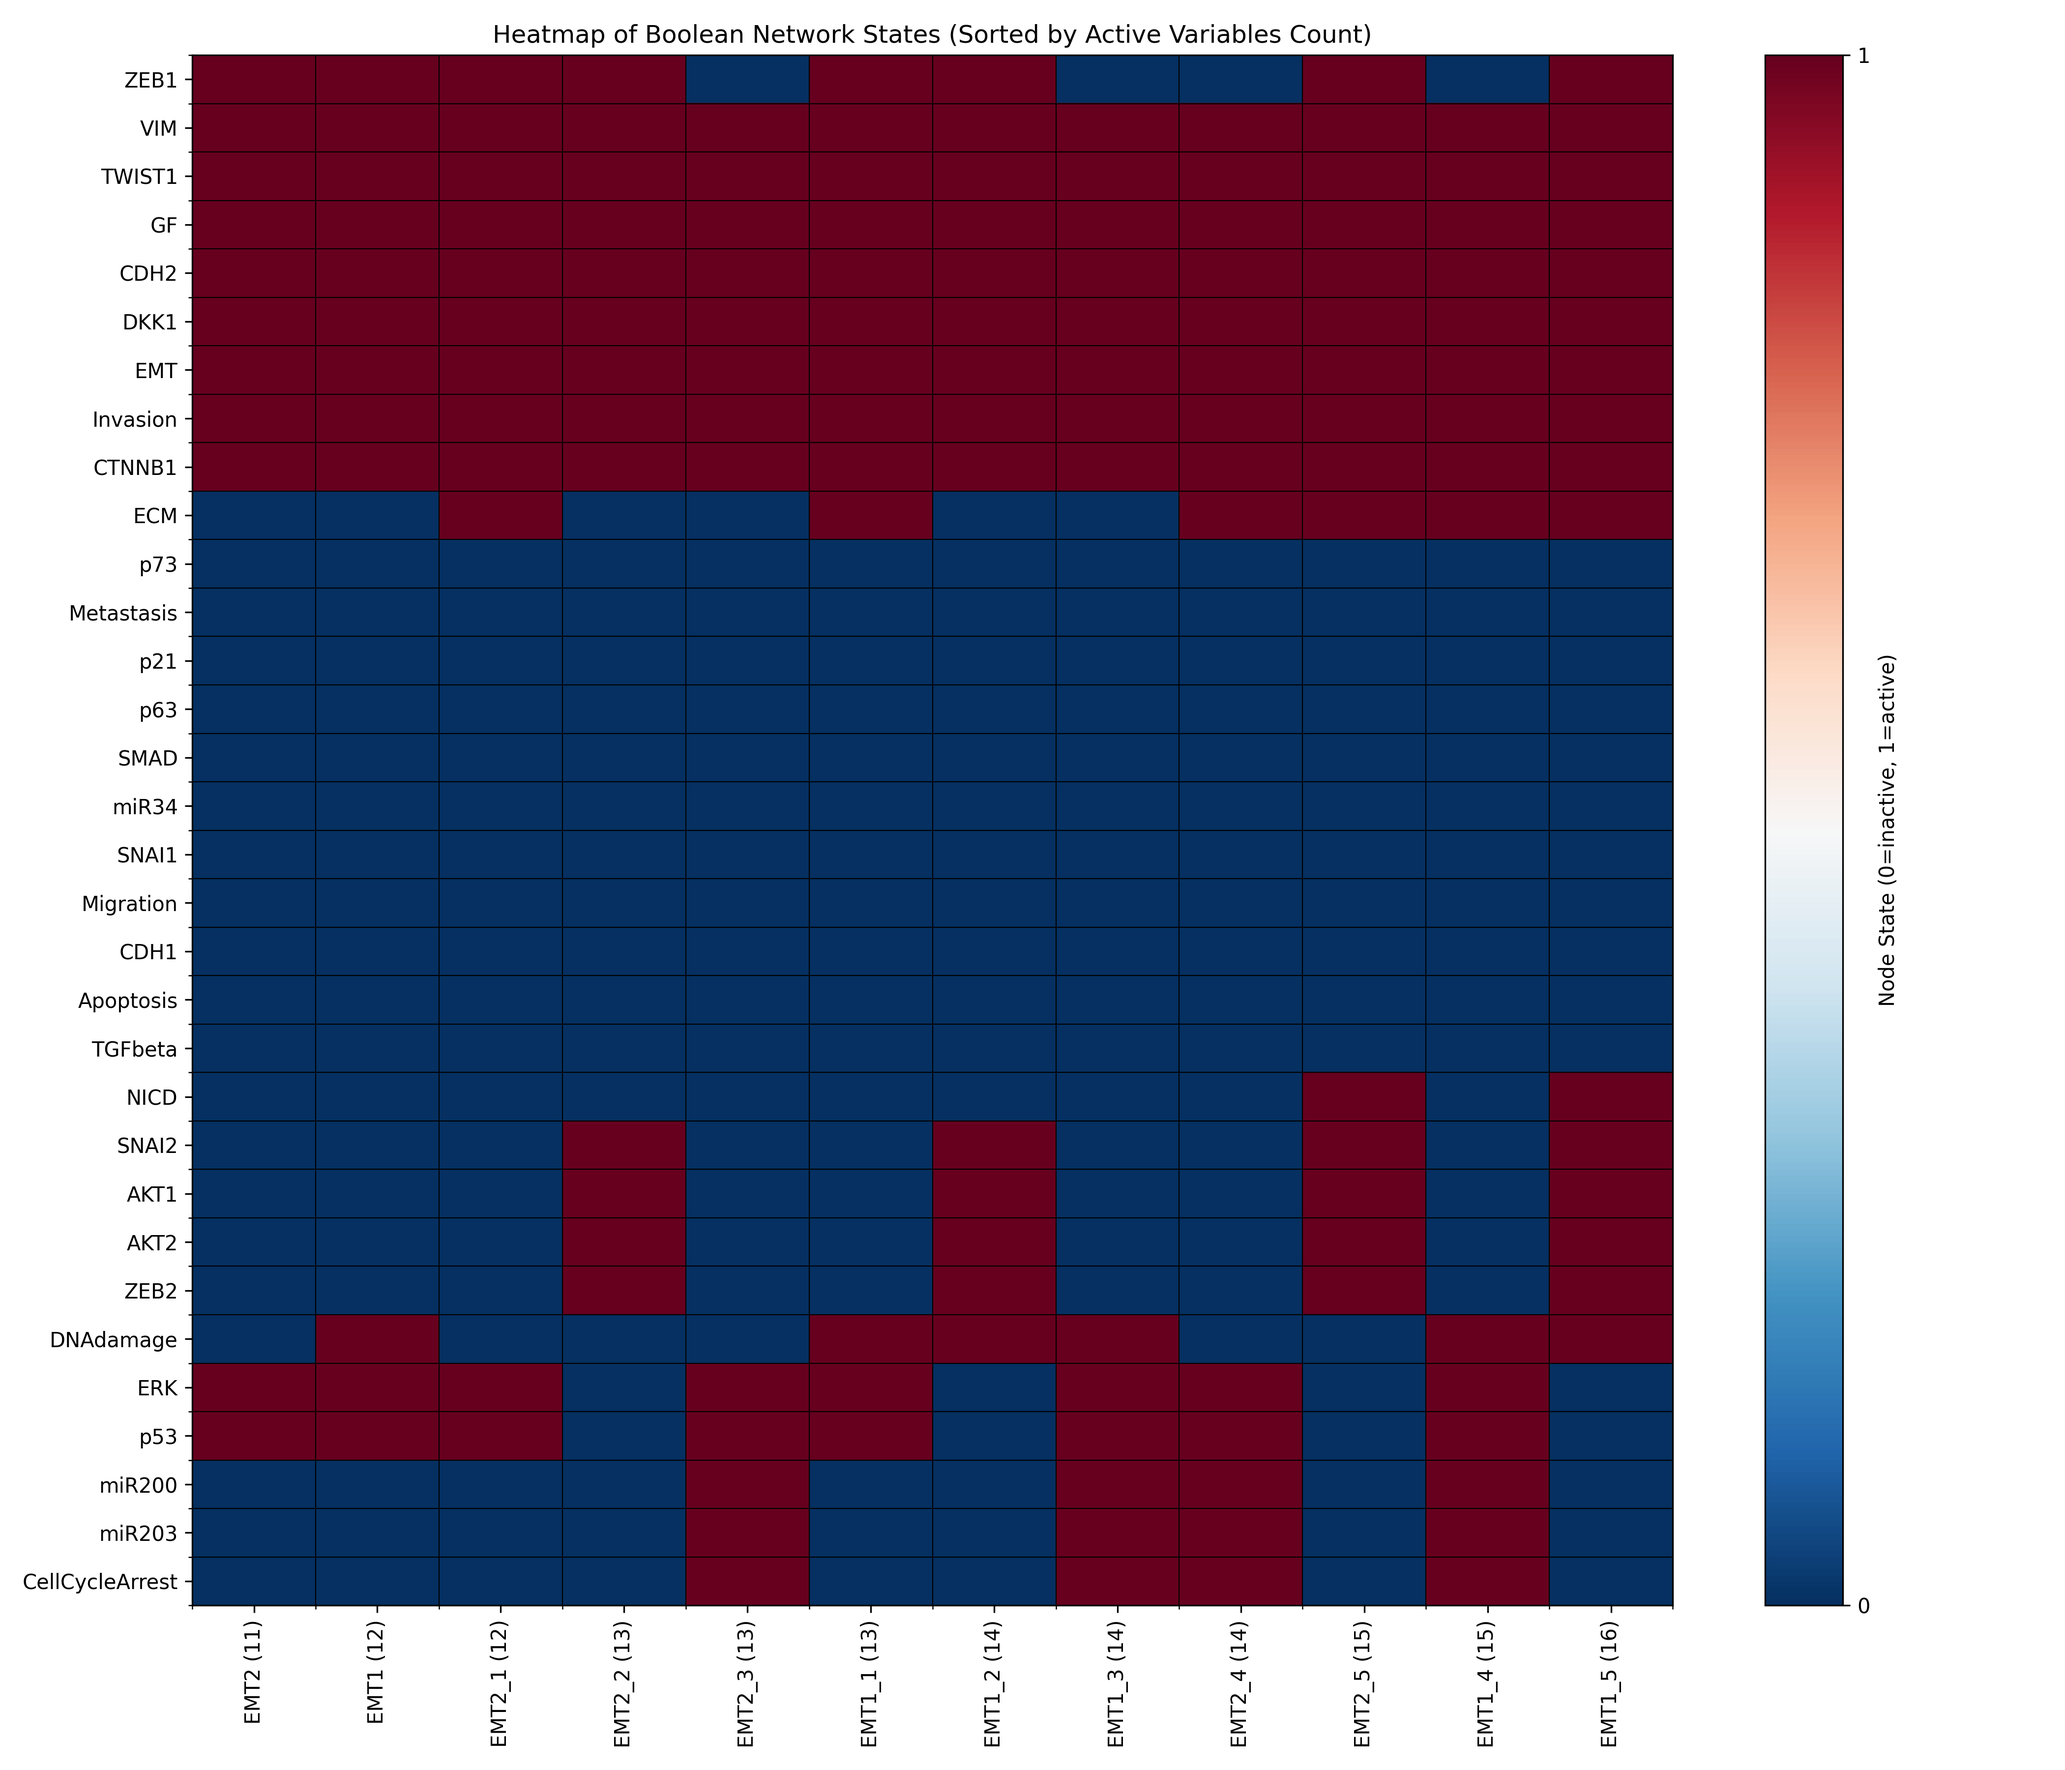
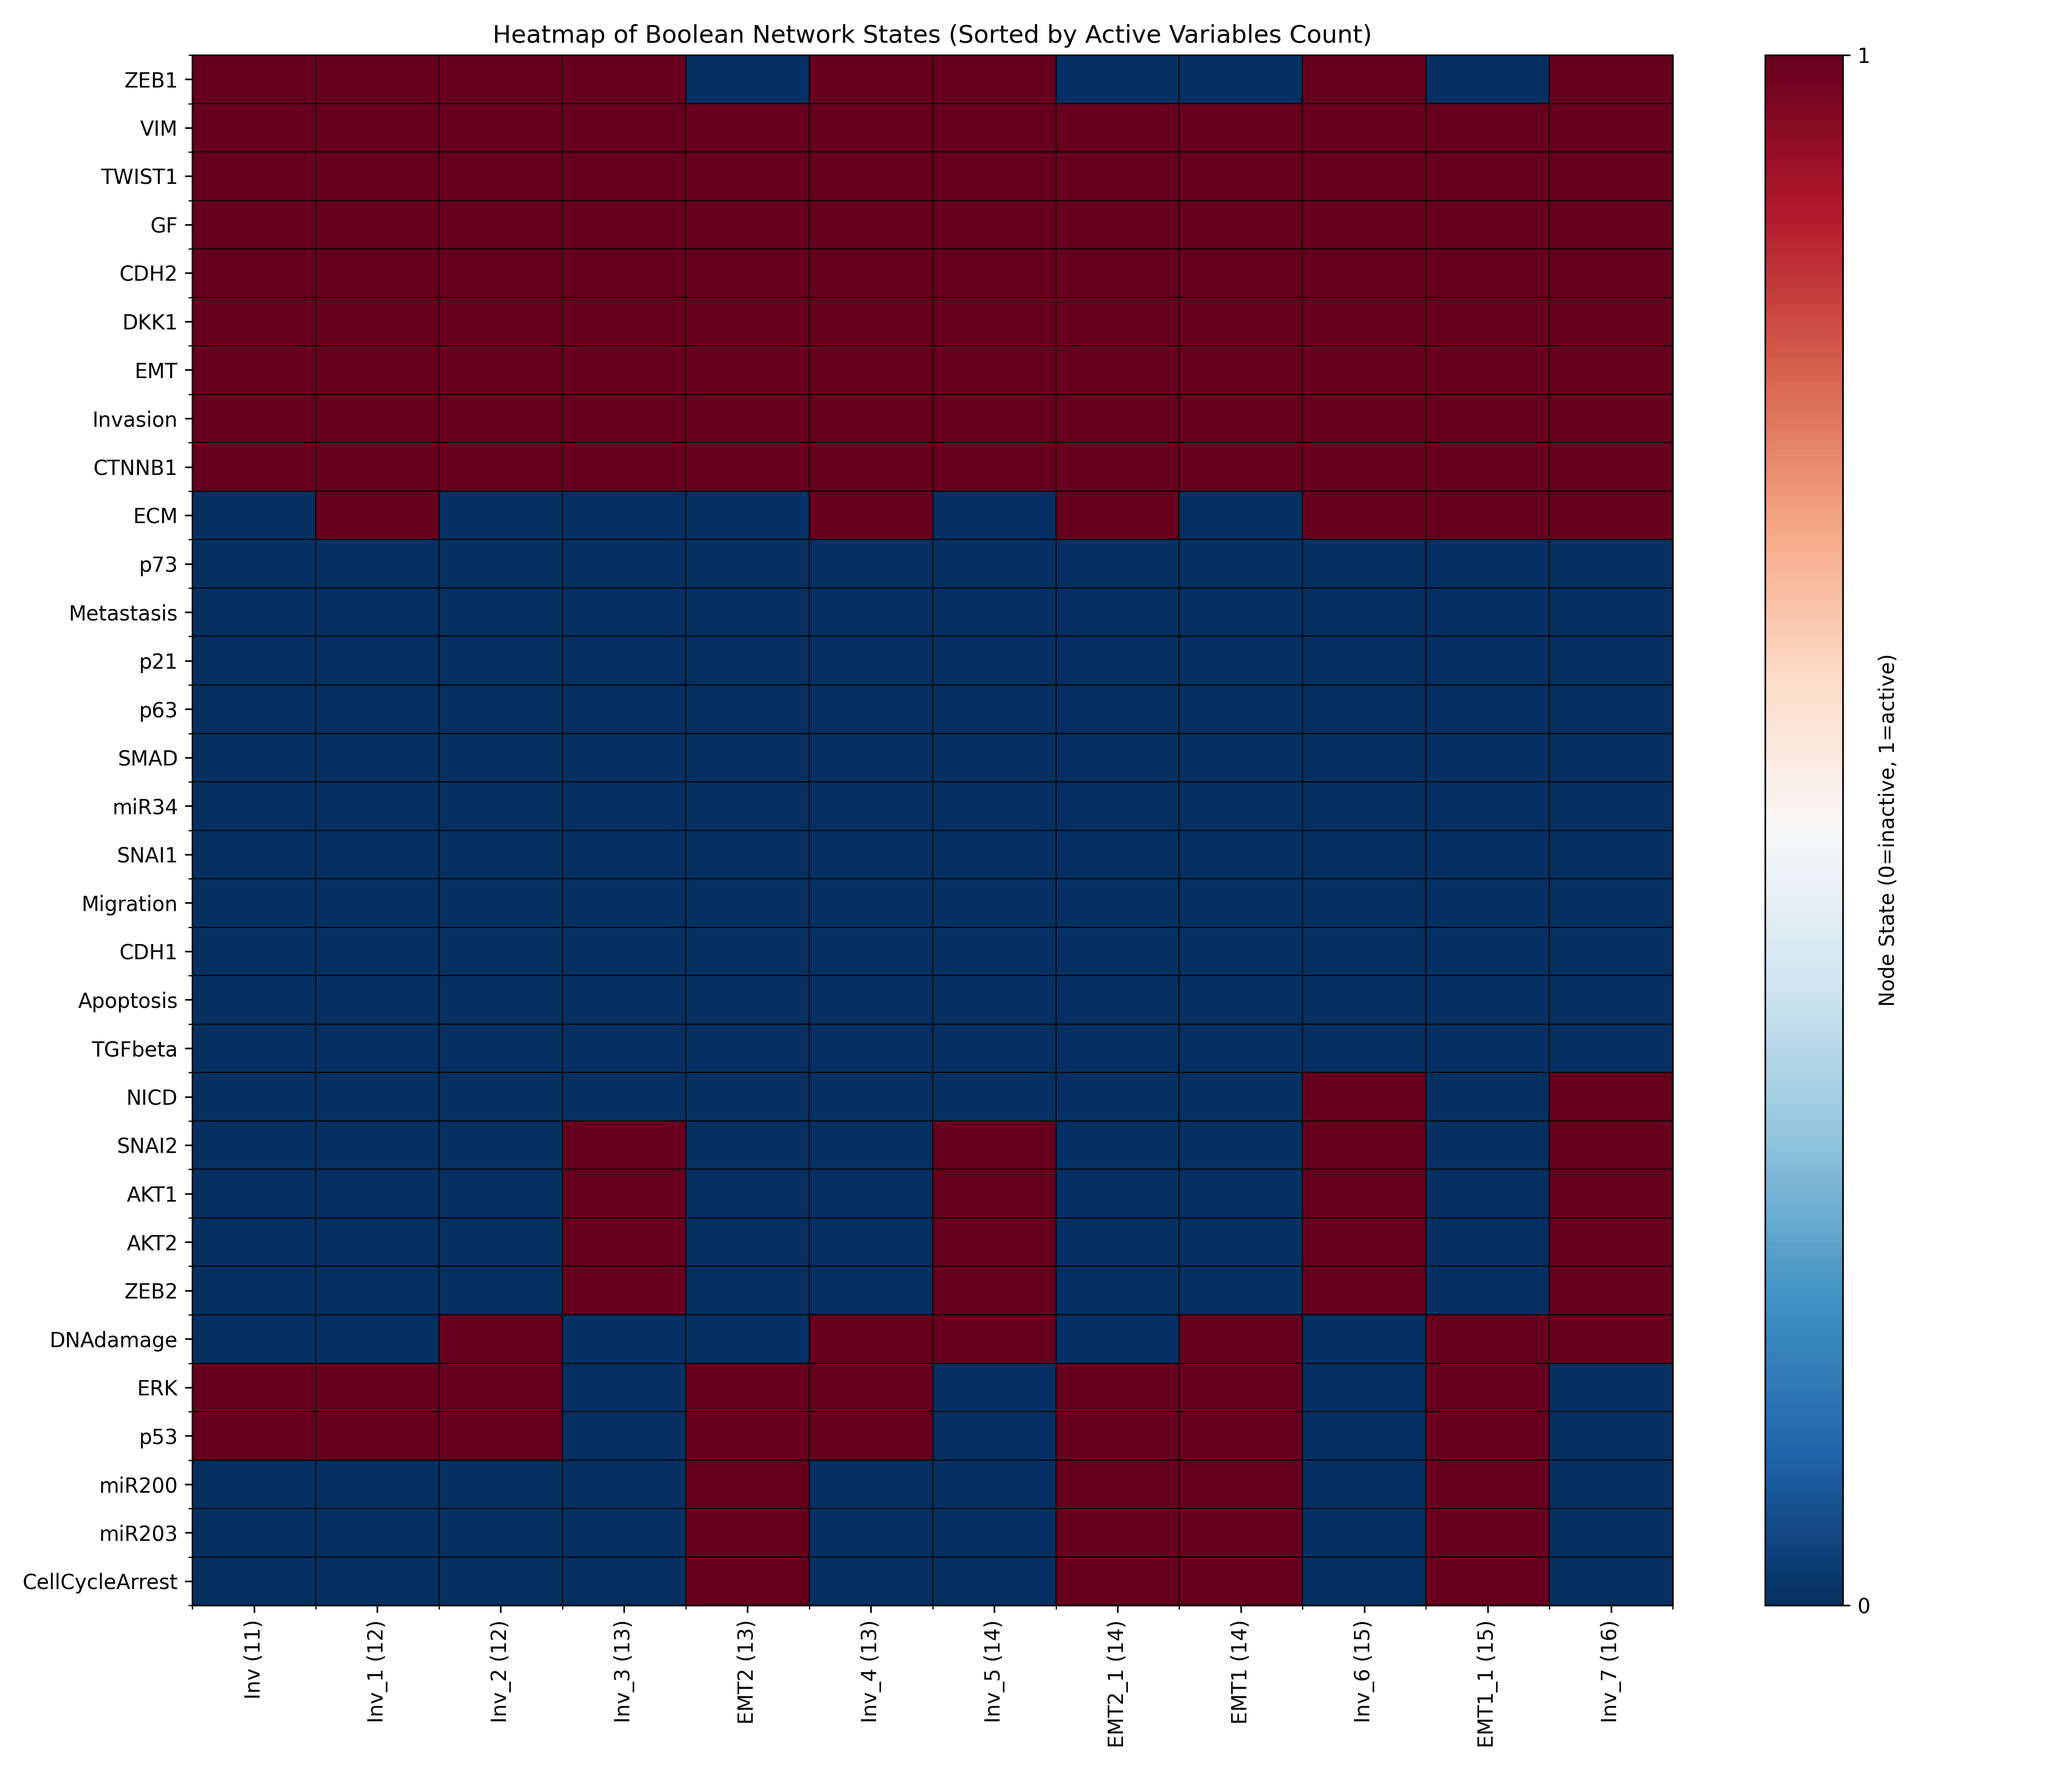
--comprehensive controllability analysis for modular model

diff --git a/metastasisModel.py b/metastasisModel.py
@@ -1,5 +1,5 @@
 from sympy import symbols
-from BooN import *
+from BooN import BooN
 
 from utils import *
 
@@ -44,6 +44,7 @@ class MetastasisModel:
             Metastasis: Migration,
             DNAdamage: DNAdamage,
             ECMicroenv: ECMicroenv}
+            
         else:
             desc={AKT1: CTNNB1 & (NICD | TGFbeta | GF | CDH2) & ~p53 & ~miR34 & ~CDH1,
             AKT2: TWIST1 & (TGFbeta | GF | CDH2) & ~(miR203 | miR34 | p53),
@@ -94,22 +95,28 @@ class MetastasisModel:
         s=self.symbols
         df = self.stable_states_df
         CDH = s['CDH1'] if s['CDH1'] in df.index.tolist() else s['Ecadh']
-        ECM_ = s['ECM'] if s['ECM'] in df.index.tolist() else s['ECMicroenv']
+        ECM = s['ECM'] if s['ECM'] in df.index.tolist() else s['ECMicroenv']
+        CCA = s['CellCycleArrest'] if s['CellCycleArrest'] in df.index.tolist() else s['CCA']
         for col in df.columns:
             state = df[col]
             if state[CDH] and state.sum() == 1:
                 name = "HS"
-            elif state[s['Apoptosis']]:
+            elif state[s['Apoptosis']] and state[CCA]:
                 if state[s['p53']]:
-                    name = "Apop1" if not state[ECM_] else "Apop3"
+                    name = "Apop1" if not state[ECM] else "Apop3"
                 else:
-                    name = "Apop2" if not state[ECM_] else "Apop4"
-            elif state[s['EMT']] and not state[s['Metastasis']]:
+                    name = "Apop2" if not state[ECM] else "Apop4"
+            elif state[s['EMT']] and not state[s['Metastasis']] and state[CCA]:
                 name = "EMT1" if state[s['DNAdamage']] else "EMT2"
-            elif state[s['Metastasis']] and state[s['Invasion']] and state[s['Migration']]:
+            elif state[s['Metastasis']] and state[s['Invasion']] and state[s['Migration']] and state[s['EMT']]:
                 name = "M1" if state[s['DNAdamage']] else "M2"
             else:
-                name = "Novel"
+                if state[s['Invasion']]:
+                    name = "Inv"
+                elif state[CCA]:
+                    name = "CCA"
+                else:
+                    name = "Novel"
             state_names.append(name)
         
         name_counts = {}
@@ -177,6 +184,16 @@ class MetastasisModel:
         for var in ft:
             model_replicate.model.desc[var]=True
         return model_replicate
+    
+    def controllability_analysis(self, name):
+        with open(f'data_files/{name}_controllability_analysis.txt', 'w') as f:
+            for var in self.variables:
+                LoF=self.control(frozenfalse={str(var)}).get_stable_states_df().columns
+                GoF=self.control(frozentrue={str(var)}).get_stable_states_df().columns
+                f.write(f"--------{var}--------\n")
+                f.write(f"OFF: {LoF}\n")
+                f.write(f"ON: {GoF}\n")
+            
         
 
 

diff --git a/full_model.py b/full_model.py
@@ -5,15 +5,15 @@ full_model = MetastasisModel(modular=False)
 # print(full_model)
 
 # full_model.draw_interaction_graph('full_model', split=True, interactive=True, show=True)
-# full_model.get_stable_states_df(display=True)
+full_model.get_stable_states_df(display=True)
 # full_model.identify_active_nodes()
 
 # full_model.write_stable_states('full_model')
 
 # full_model.plot_stable_states('full_model', show=True)
 
-mutated_model = full_model.control(frozentrue={'CTNNB1'})
-mutated_model.get_stable_states_df(display=True)
-mutated_model.write_stable_states('mutated_model')
+# mutated_model = full_model.control(frozentrue={'CTNNB1'})
+# mutated_model.get_stable_states_df(display=True)
+# mutated_model.write_stable_states('mutated_model')
 
-mutated_model.plot_stable_states('mutated_model', show=False)
+# mutated_model.plot_stable_states('mutated_model', show=False)

diff --git a/modular_model.py b/modular_model.py
@@ -11,8 +11,10 @@ reduced_model = MetastasisModel(modular=True)
 
 # reduced_model.plot_stable_states('reduced_model', show=True)
 
-mutated_model = reduced_model.control(frozenfalse={'p53','Ecadh'})
-mutated_model.get_stable_states_df(display=True)
-mutated_model.write_stable_states('second_mutated_model')
+# mutated_model = reduced_model.control(frozenfalse={'p53','Ecadh'})
+# mutated_model.get_stable_states_df(display=True)
+# mutated_model.write_stable_states('second_mutated_model')
 
-mutated_model.plot_stable_states('second_mutated_model')
+# mutated_model.plot_stable_states('second_mutated_model')
+
+reduced_model.controllability_analysis('reduced_model')
